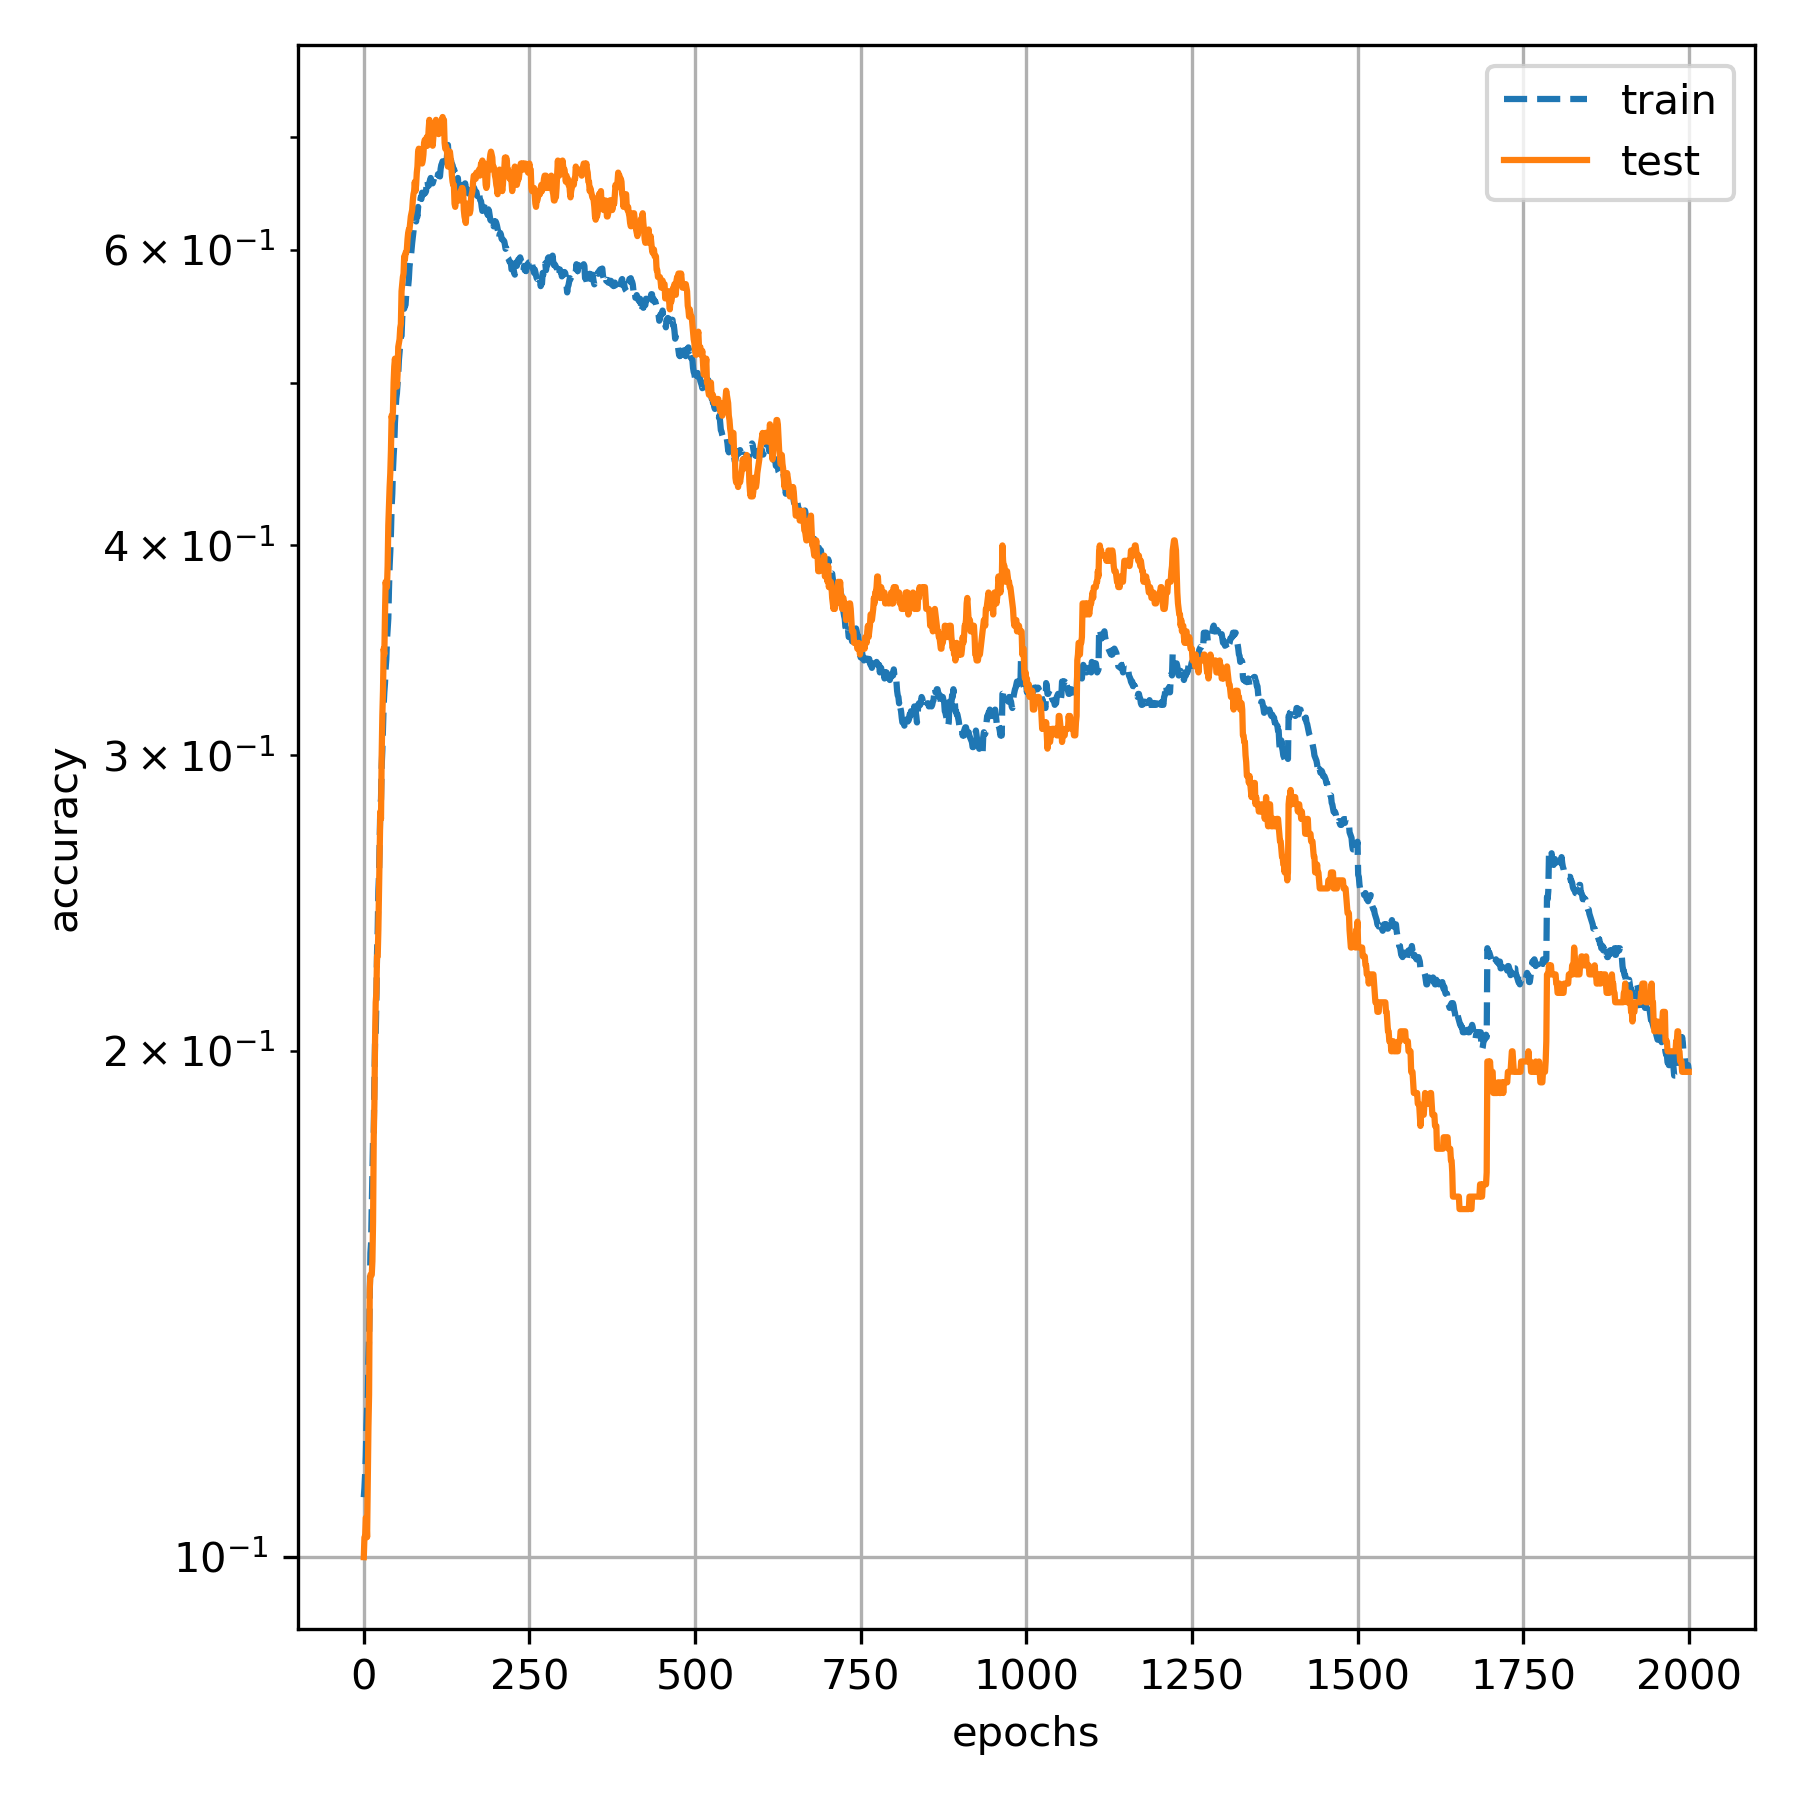
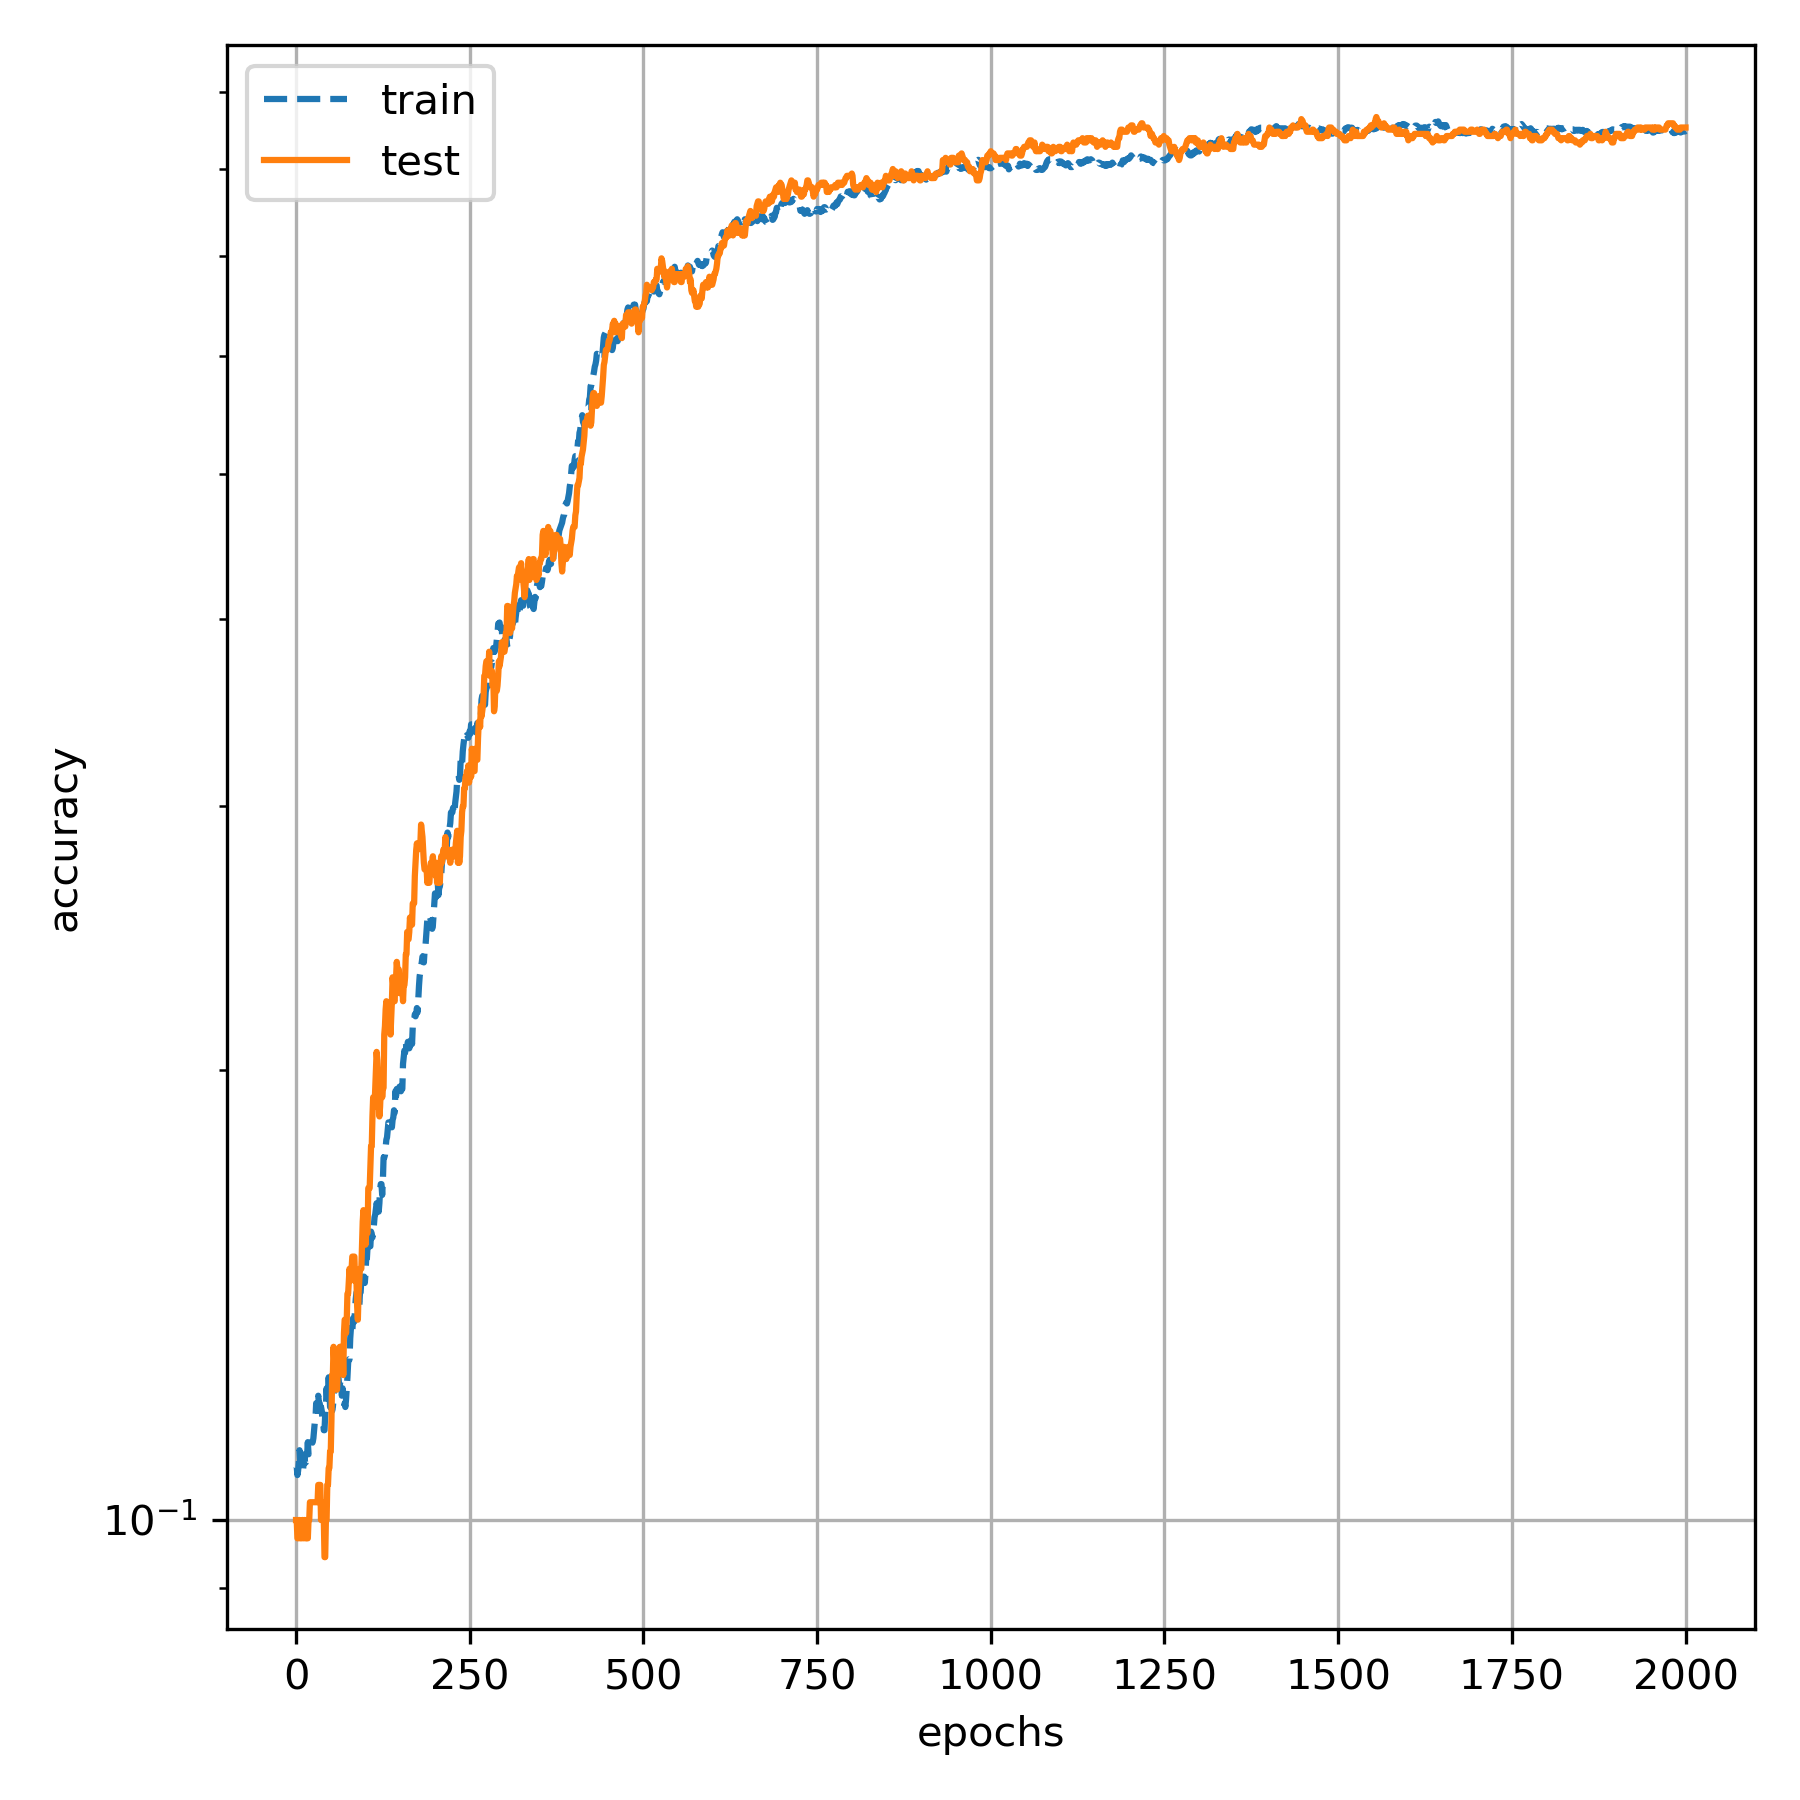
fixed error in cross entropy

diff --git a/main.py b/main.py
@@ -272,10 +272,10 @@ def task_e():
     x_train, x_test, y_train, y_test = prepare_digit_data()
     n_out = 10
     n_in = x_train.shape[1]
-    n_middle = 128
-    learning_rate = 0.00001
+    n_middle = 256
     epochs = 2000
     batch_size = 100
+    learning_rate = 0.0001
 
     l_in = LayerDense(n_in, n_middle, "lin", learning_rate, Costfunctions.mse,
                       ActivationFunctions.elu)
@@ -283,7 +283,8 @@ def task_e():
                       ActivationFunctions.sigmoid)
     l_ou = LayerDense(n_middle, n_out, "lou", learning_rate, Costfunctions.cross_entropy,
                       ActivationFunctions.softmax)
-    network = Network([l_in, l_mi, l_ou], "mnist", [Metrics.ce, Metrics.accuracy, Metrics.ce_grad])
+    network = Network([l_in, l_mi, l_ou], "mnist", [Metrics.ce, Metrics.accuracy,
+                                                    Metrics.ce_grad, Metrics.mse])
     network.train(x_train.T, y_train.T, epochs, batch_size, x_test.T, y_test.T)
     print("Metric after initialization, after first epoch and last epoch ")
     print(network.get_train_met()[0, :], network.get_train_met()[1, :],
@@ -303,6 +304,11 @@ def task_e():
                                       "e", "ceg_own_" + "_".join(
             [network.name, "epochs", str(epochs), "lr", str(learning_rate), "nodes", str(n_middle),
              "batch_size", str(batch_size)]), "ent grad")
+    print_metrik_by_network_and_epoch(epochs,
+                                      [network.get_train_met()[:, 3], network.get_test_met()[:, 3]],
+                                      "e", "mse_own_" + "_".join(
+            [network.name, "epochs", str(epochs), "lr", str(learning_rate), "nodes", str(n_middle),
+             "batch_size", str(batch_size)]), "mse")
 
 # task_b_own()
 # task_b_keras()

diff --git a/network.py b/network.py
@@ -15,7 +15,7 @@ class Metrics:
     def accuracy(y_true, y_pred):
         y_true = Metrics.pred_to_class(y_true)
         y_pred = Metrics.pred_to_class(y_pred)
-        return np.sum(y_true == y_pred) / y_pred.__len__()
+        return np.sum(y_true == y_pred) / len(y_pred)
 
     @staticmethod
     def mse(y_true, y_pred):
@@ -33,6 +33,7 @@ class Metrics:
     def coeff_determination(y_true, y_pred):
         r = (np.square(y_true - y_pred)) / np.sum(np.square(y_true - np.mean(y_true)))
         return 1 - np.sum(r)
+
 
 class Costfunctions:
     la = 0.1
@@ -57,19 +58,12 @@ class Costfunctions:
     @staticmethod
     def cross_entropy(y_true, y_pred, l):
         y_pred = y_pred + Costfunctions.eps
-        return -np.nansum(y_true * np.log(y_pred) - np.log(1+y_pred), axis=0)
-
-    """
-    @staticmethod
-    def cross_entropy(y_true, y_pred, l):
-        y_pred = y_pred + Costfunctions.eps
-        return -np.nansum(y_true*np.log(y_pred) + (1-y_true)*np.log(1-y_pred), axis=0)
-    """
+        return - np.nanmean(y_true * np.log(y_pred) + (1-y_true)*np.log(1-y_pred), axis=0)
 
     @staticmethod
     def cross_entropy_grad(y_true, y_pred, l):
         y_pred = y_pred + Costfunctions.eps
-        return y_true - y_pred/(1+y_pred)
+        return -(y_pred - y_true)/(y_pred*(1-y_pred))/y_true.shape[0]
 
     @staticmethod
     def soft_max(y_true, y_pred, l):
